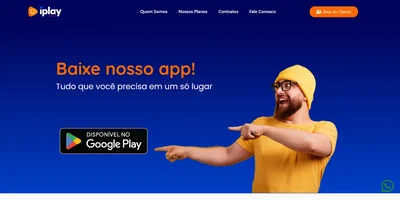
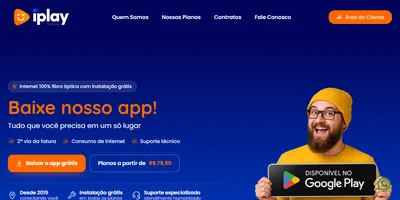
Portfólio: nova versão da iPlay Telecom (PHP puro, sem WordPress)

diff --git a/index.html b/index.html
@@ -627,8 +627,8 @@
           <div class="corpo"><span class="dominio">cintiamayara.com.br</span><h3>Cintia Mayara</h3><p>Site de atividades educativas com venda de ebooks para professores e famílias da educação infantil.</p><ul class="etiquetas"><li>Loja digital</li><li>Educação</li><li>SEO</li></ul></div>
         </a>
         <a class="trabalho reveal" href="https://iplaytelecom.com.br/" target="_blank" rel="noopener">
-          <img src="img/trabalhos/iplaytelecom.webp" srcset="img/trabalhos/iplaytelecom-400.webp 400w, img/trabalhos/iplaytelecom-800.webp 800w, img/trabalhos/iplaytelecom.webp 1200w" sizes="381px" alt="Site da iPlay Telecom, provedor de internet" width="1200" height="600" loading="lazy" decoding="async">
-          <div class="corpo"><span class="dominio">iplaytelecom.com.br</span><h3>iPlay Telecom</h3><p>Portal de provedor de internet: o cliente vê os planos, acessa a área do cliente e baixa o aplicativo.</p><ul class="etiquetas"><li>Provedor</li><li>Planos</li><li>Área do cliente</li></ul></div>
+          <img src="img/trabalhos/iplaytelecom.webp?v=20261023" srcset="img/trabalhos/iplaytelecom-400.webp?v=20261023 400w, img/trabalhos/iplaytelecom-800.webp?v=20261023 800w, img/trabalhos/iplaytelecom.webp?v=20261023 1200w" sizes="381px" alt="Site da iPlay Telecom, provedor de internet" width="1200" height="600" loading="lazy" decoding="async">
+          <div class="corpo"><span class="dominio">iplaytelecom.com.br</span><h3>iPlay Telecom</h3><p>Portal de provedor de internet, refeito em PHP puro, sem WordPress: o cliente vê os planos, acessa a área do cliente e baixa o aplicativo.</p><ul class="etiquetas"><li>Provedor</li><li>PHP puro</li><li>Área do cliente</li></ul></div>
         </a>
         <a class="trabalho reveal" href="https://nutrivaldemiza.com.br/" target="_blank" rel="noopener">
           <img src="img/trabalhos/nutrivaldemiza.webp" srcset="img/trabalhos/nutrivaldemiza-400.webp 400w, img/trabalhos/nutrivaldemiza.webp 880w" sizes="381px" alt="Página de Valdemiza Santos, nutricionista" width="880" height="495" loading="lazy" decoding="async">
